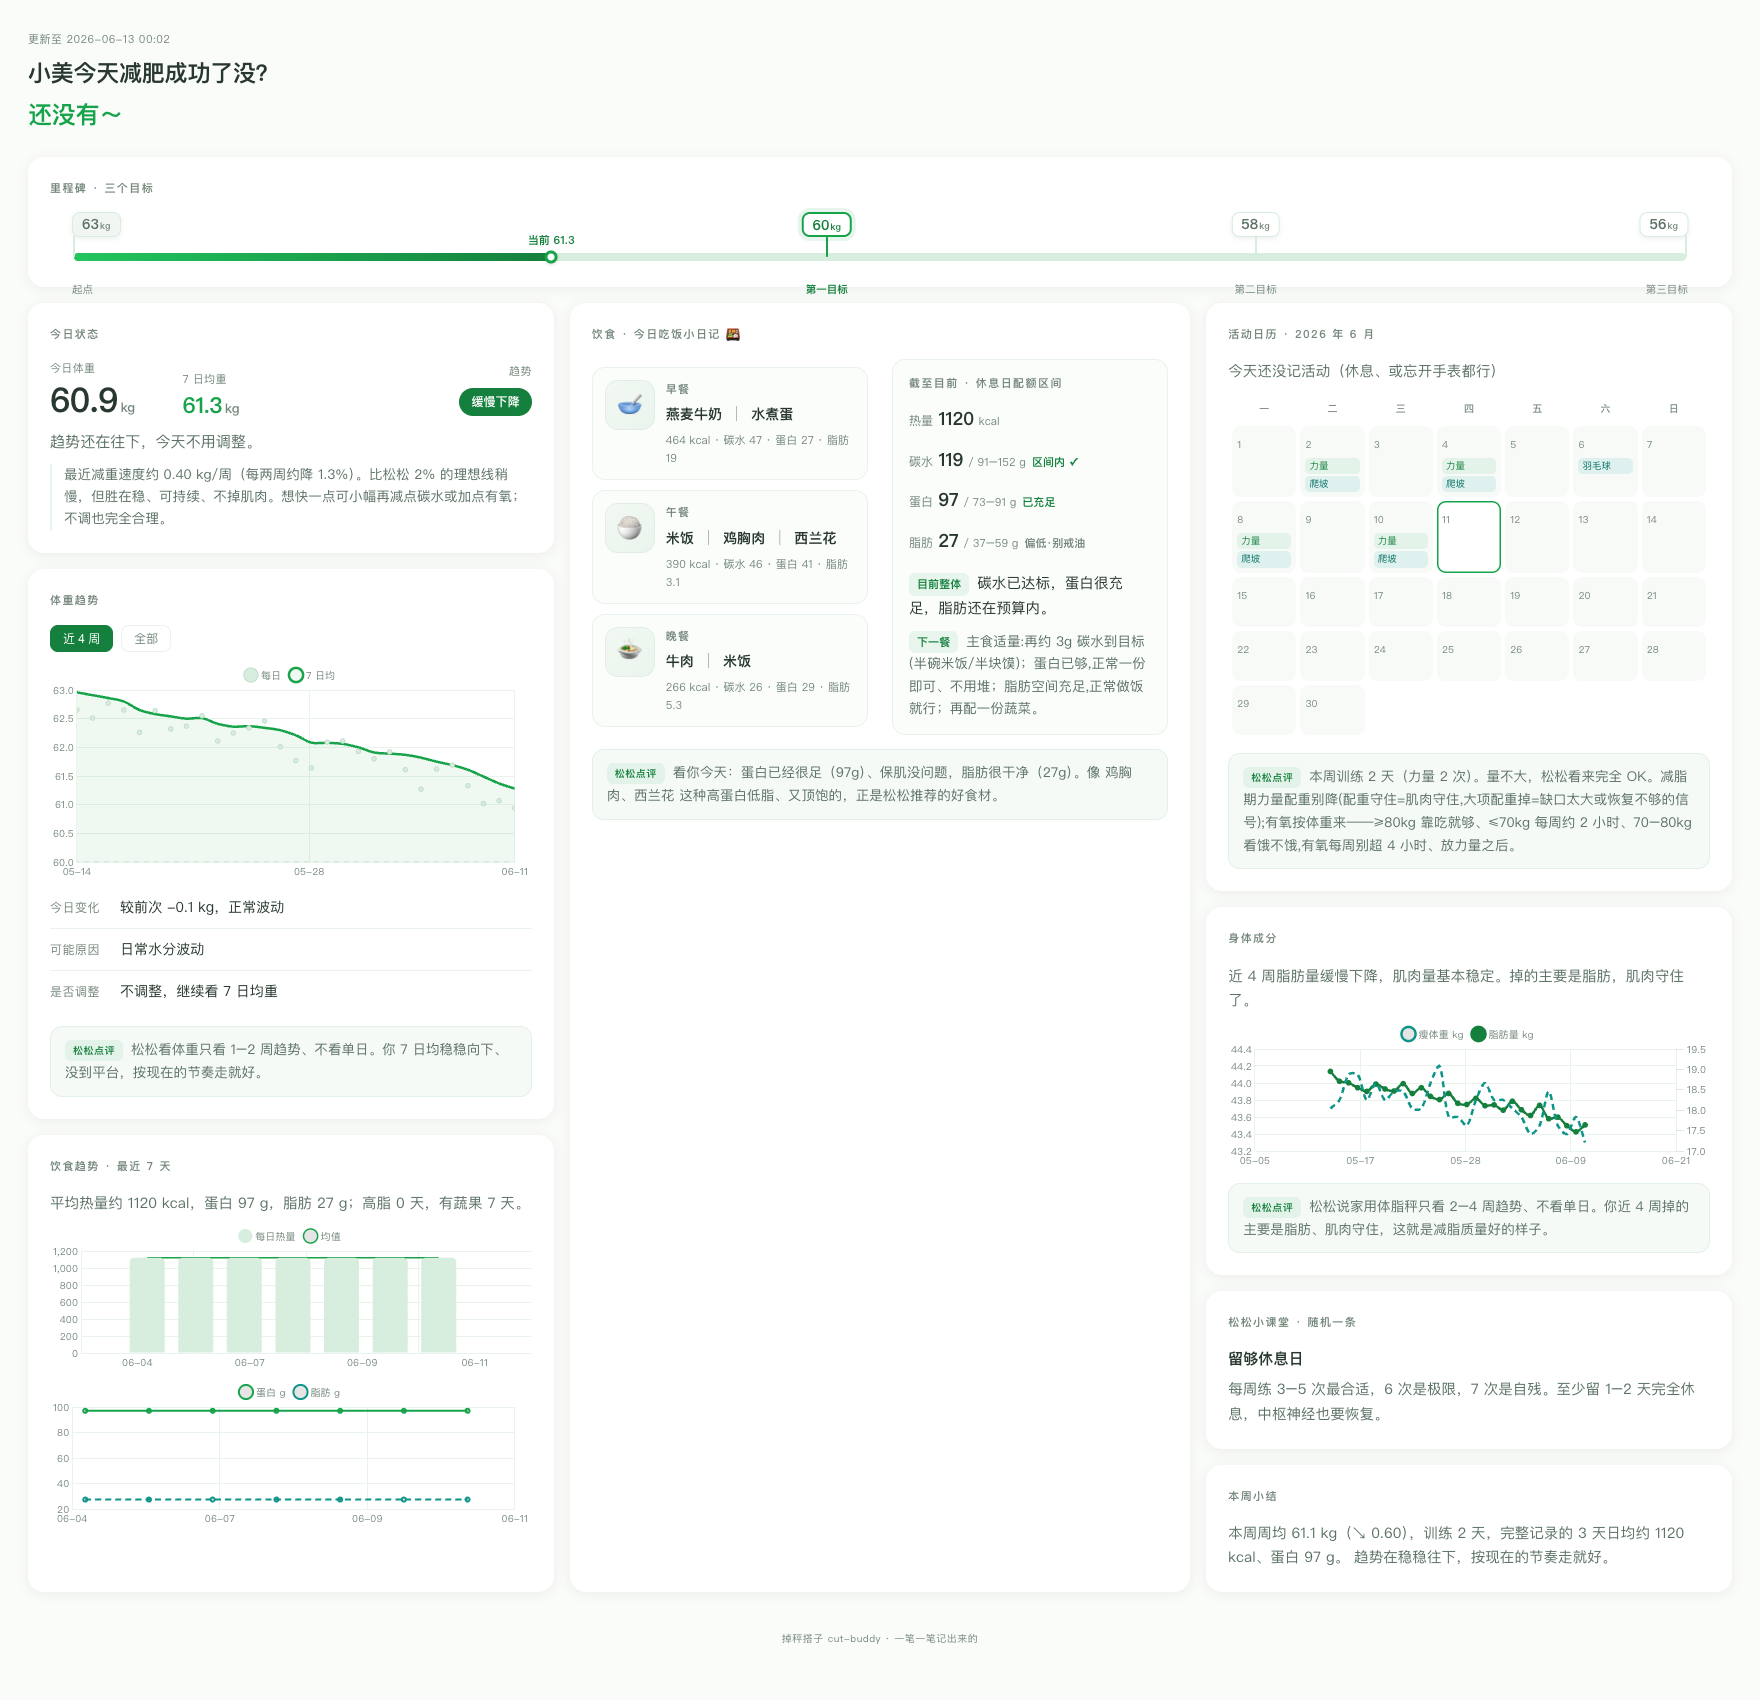
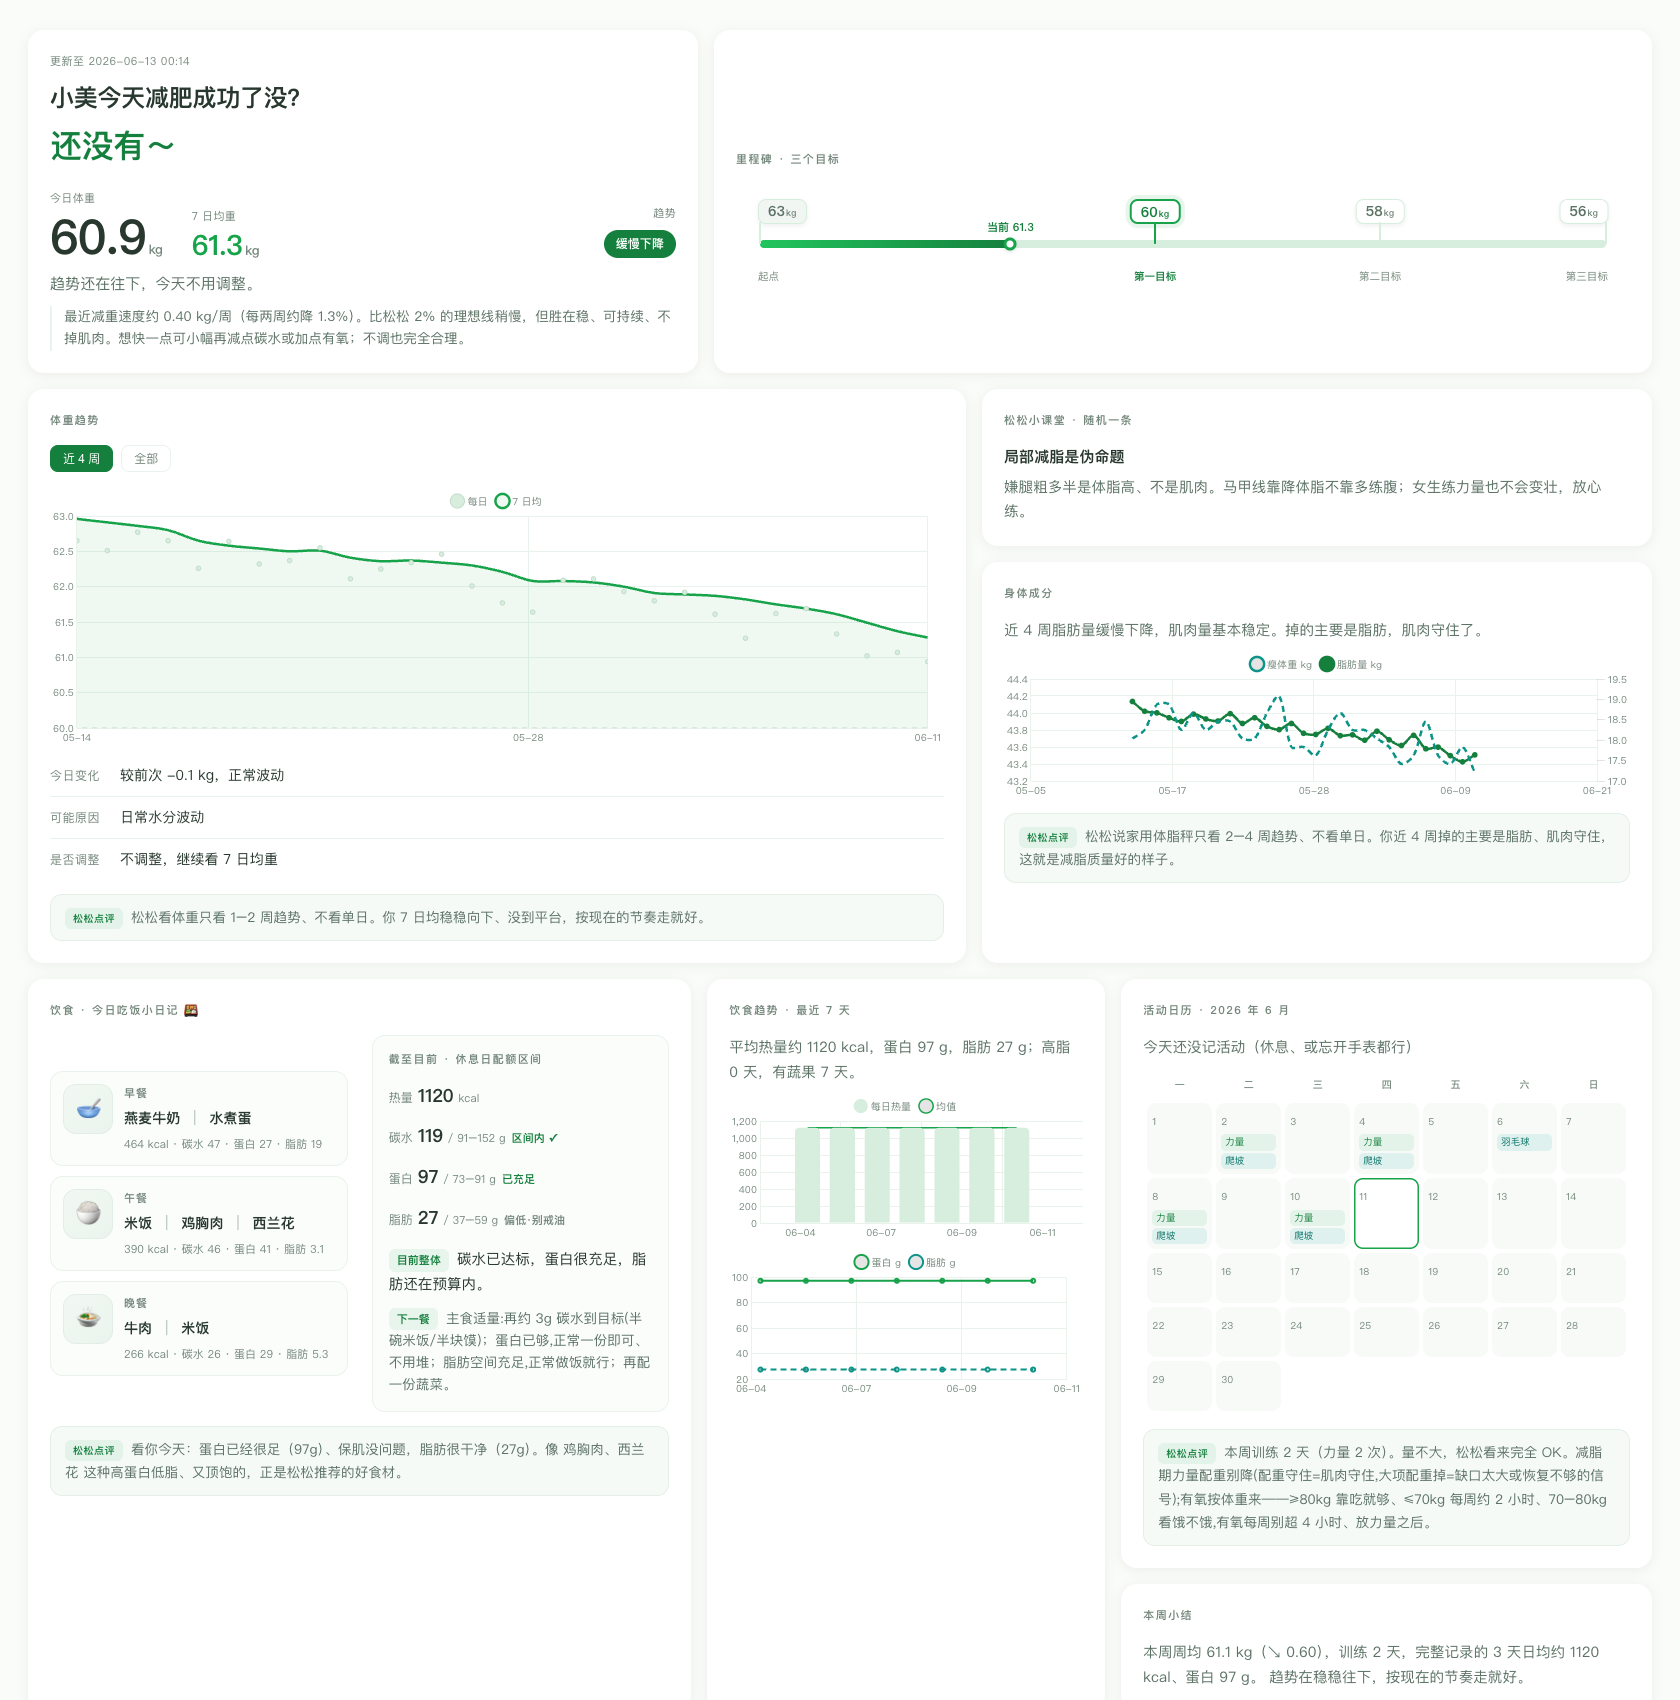
v1.9: 分享视图Bento三段式重排(英雄卡/证据区/细节区)

diff --git a/scripts/build_dashboard.py b/scripts/build_dashboard.py
@@ -817,14 +817,13 @@ def render(D):
     pattern_block = (c_sub("最近 30 天") + "<div class='body-t'>%s</div>" % esc(di["pattern_text"])) if show_pattern else ""
     body_chart = "<div class='cv sm'><canvas id='cBody' role='img' aria-label='身体成分趋势:瘦体重(虚线)与脂肪量(实线)双轴折线图'></canvas></div>" if bo["has"] else ""
 
-    # —— 用统一组件拼装整页 ——
-    head = "<div class='head'><div class='upd'>更新至 %s</div><h1>%s</h1><div class='answer'>%s</div></div>" % (
-        esc(D["updated"]), esc(mst["question"]), esc(mst["answer"]))
+    # —— 用统一组件拼装整页(Bento 层级:英雄卡=第一眼焦点) ——
     c_milestone = c_card(milestone_html(mst), "里程碑 · 三个目标")
     stats = (c_stat("今日体重", f1(t["weight"]), "kg") + c_stat("7 日均重", f1(t["ma7"]), "kg", "ma")
              + "<div class='stat tr'><div class='l'>趋势</div>%s</div>" % c_tag(t["trend_label"]))
-    c_status = c_card("<div class='stats'>%s</div><div class='one'>%s</div><div class='speed'>%s</div>" % (
-        stats, esc(t["one"]), esc(t["speed"])), "今日状态")
+    c_hero = ("<div class='card hero'><div class='upd'>更新至 %s</div><h1>%s</h1><div class='answer'>%s</div>"
+              "<div class='stats'>%s</div><div class='one'>%s</div><div class='speed'>%s</div></div>") % (
+        esc(D["updated"]), esc(mst["question"]), esc(mst["answer"]), stats, esc(t["one"]), esc(t["speed"]))
     weight_kv = ("<div class='kv'><div class='row'><span class='k'>今日变化</span><span>%s</span></div>"
                  "<div class='row'><span class='k'>可能原因</span><span>%s</span></div>"
                  "<div class='row'><span class='k'>是否调整</span><span>%s</span></div></div>") % (
@@ -840,11 +839,19 @@ def render(D):
         esc(bo["summary"]), body_chart, c_coach(bo["coach"])), "身体成分", cls="")
     c_supp = c_card(supp_html(supp), cls=("praise-card" if supp["kind"] == "praise" else ""))
     c_recap = c_card("<div class='body-t'>%s</div>" % esc(recap_txt), "本周小结", cls="")
-    # 宽幅三栏(≥1360px 一屏放下全部内容,整页截一张图即可分享);窄屏自动退化为单列
-    col1 = "<div class='wcol'>%s%s%s</div>" % (c_status, c_weight, c_diettrend)
-    col2 = "<div class='wcol'>%s</div>" % c_diet
-    col3 = "<div class='wcol'>%s%s%s%s</div>" % (c_calendar, c_bodycomp, c_supp, c_recap)
-    body_html = head + c_milestone + "<div class='wide'>%s%s%s</div>" % (col1, col2, col3)
+    # Bento 三段式(≥1360px;窄屏自动退化为单列竖排,阅读顺序不变):
+    #  R1 第一眼:英雄卡(问句+答案+大数字) | 里程碑    R2 证据:体重趋势大图 | 夸夸+身体成分
+    #  R3 细看:今日饮食 | 7天饮食趋势 | 日历+小结
+    band1 = "<div class='b1'>%s%s</div>" % (c_hero, c_milestone)
+    band2 = ("<div class='b2'><div class='bcell bmain'>%s</div><div class='bcell'>%s%s</div></div>"
+             % (c_weight, c_supp, c_bodycomp))
+    if c_diettrend:
+        band3 = ("<div class='b3'><div class='bcell'>%s</div><div class='bcell'>%s</div><div class='bcell'>%s%s</div></div>"
+                 % (c_diet, c_diettrend, c_calendar, c_recap))
+    else:
+        band3 = ("<div class='b3 b3two'><div class='bcell'>%s</div><div class='bcell'>%s%s</div></div>"
+                 % (c_diet, c_calendar, c_recap))
+    body_html = band1 + band2 + band3
 
     out = TEMPLATE.replace("/*DATA*/", json.dumps(D["charts"], ensure_ascii=False)).replace("__BODY__", body_html)
     out = out.replace("数据本地存储 · ~/Documents/cut-buddy-data", foot)
@@ -928,18 +935,16 @@ html{-webkit-font-smoothing:antialiased;text-rendering:optimizeLegibility;}
 body{margin:0;background:var(--bg);color:var(--ink);
  font:15px/1.65 'Nunito Sans','PingFang SC','Hiragino Sans GB','Microsoft YaHei',sans-serif;
  font-variant-numeric:tabular-nums;font-feature-settings:"tnum" 1;letter-spacing:.005em;}
-h1,.stat .v,.head .answer,.sf-item b,.node .flag{font-family:'Varela Round','Nunito Sans','PingFang SC','Hiragino Sans GB',sans-serif;}
+h1,.stat .v,.hero .answer,.sf-item b,.node .flag{font-family:'Varela Round','Nunito Sans','PingFang SC','Hiragino Sans GB',sans-serif;}
 .wrap{max-width:540px;margin:0 auto;padding:30px 18px 80px;}
-.head{margin-bottom:22px;}
-.head h1{font-size:19px;font-weight:650;letter-spacing:-.01em;margin:0 0 3px;}
-.head .sb{color:var(--t3);font-size:12px;} .head .up{color:var(--t3);font-size:11px;margin-top:3px;}
 .card{background:var(--card);border-radius:var(--r);box-shadow:var(--shadow);padding:22px;margin-bottom:16px;
  animation:rise .5s cubic-bezier(.2,.7,.2,1) both;}
 @keyframes rise{from{opacity:0;transform:translateY(8px)}to{opacity:1}}
 @media(prefers-reduced-motion:reduce){.card{animation:none}}
-.head .upd{font-size:11px;color:var(--t3);letter-spacing:.04em;margin-bottom:7px;}
-.head h1{font-size:23px;font-weight:700;letter-spacing:-.01em;margin:0;}
-.head .answer{font-size:24px;font-weight:700;color:var(--accent);margin-top:2px;letter-spacing:-.01em;}
+/* 英雄卡:整页第一眼焦点(问句+答案+今日体重大数字) */
+.hero .upd{font-size:11px;color:var(--t3);letter-spacing:.04em;margin-bottom:8px;}
+.hero h1{font-size:21px;font-weight:700;letter-spacing:-.01em;margin:0;}
+.hero .answer{font-size:26px;font-weight:700;color:var(--accent-d);margin:2px 0 16px;letter-spacing:-.01em;}
 .msbar{position:relative;margin:56px 24px 4px;}
 .track2{position:relative;height:8px;background:var(--weak);border-radius:8px;}
 .fill2{position:absolute;left:0;top:0;height:100%;background:linear-gradient(90deg,var(--accent-l),var(--accent-d));border-radius:8px;}
@@ -971,18 +976,30 @@ h1,.stat .v,.head .answer,.sf-item b,.node .flag{font-family:'Varela Round','Nun
 .tip-b{font-size:14.5px;line-height:1.7;color:var(--t2);}  /* 与 .body-t 同刻度:同级卡片正文必须同字号 */
 .speed{margin-top:11px;font-size:13.5px;line-height:1.65;color:var(--t2);padding-left:12px;border-left:2px solid var(--soft);}
 /* 字号刻度约定:正文级(body-t/tip-b/judge2)14.5 · 结论行(one)15 · 次级说明(coach/advice2/speed)13.5 · 提示(note)12.5 */
-/* 宽幅三栏:默认(窄屏)栏容器透明化,卡片照旧单列竖排;≥1360px 变三栏、一屏容纳全部内容,
-   整页截图即一张可分享的宽图。各栏末卡弹性补高 → 三栏底边恒对齐。 */
-.wide,.wcol{display:contents;}
+/* Bento 三段式(分享视图):默认(窄屏)容器透明化、卡片单列竖排;≥1360px 进入便当盒布局——
+   R1 英雄卡|里程碑 → R2 趋势大图|夸夸+身体成分 → R3 饮食|7天趋势|日历+小结。
+   各格末卡弹性补高 → 每段底边恒对齐,整页截图即一张层级清晰的分享宽图。 */
+.b1,.b2,.b3,.bcell{display:contents;}
 @media(min-width:880px){
  .wrap{max-width:1000px;}
  .span2 .stats{gap:48px;}
 }
 @media(min-width:1360px){
- .wrap{max-width:1760px;padding-left:28px;padding-right:28px;}
- .wide{display:grid;grid-template-columns:1fr 1.18fr 1fr;gap:0 16px;align-items:stretch;}
- .wcol{display:flex;flex-direction:column;min-width:0;}
- .wcol>.card:last-child{flex:1;}
+ .wrap{max-width:1680px;padding-left:28px;padding-right:28px;}
+ .b1{display:grid;grid-template-columns:5fr 7fr;gap:0 16px;align-items:stretch;}
+ .b2{display:grid;grid-template-columns:7fr 5fr;gap:0 16px;align-items:stretch;}
+ .b3{display:grid;grid-template-columns:5fr 3fr 4fr;gap:0 16px;align-items:stretch;}
+ .b3.b3two{grid-template-columns:6fr 6fr;}
+ .bcell{display:flex;flex-direction:column;min-width:0;}
+ .bcell>.card:last-child{flex:1;}
+ .b1>.card{display:flex;flex-direction:column;justify-content:center;}
+ .b1>.hero{justify-content:flex-start;}
+ .hero h1{font-size:24px;}
+ .hero .answer{font-size:32px;}
+ .hero .stat .v{font-size:48px;}
+ .hero .stat.ma .v{font-size:28px;}
+ .bmain>.card{display:flex;flex-direction:column;}
+ .bmain .cv{flex:1;height:auto;min-height:260px;}
 }
 .mt{font-size:11px;font-weight:600;color:var(--t3);letter-spacing:.13em;text-transform:uppercase;margin:0 0 16px;}
 /* 今日状态 */

diff --git a/docs/DESIGN-SYSTEM.md b/docs/DESIGN-SYSTEM.md
@@ -90,3 +90,21 @@
 
 - `theme-compare.html` —— 四主题对比版,**"清新草绿"主题即本方案的活样板**(色值与本文档一一对应)
 - `dashboard-demo.html` —— 单主题版,已同步为清新草绿终版
+
+---
+
+## 9. 分享视图布局(Bento 三段式,v1.9 定稿)
+
+> 场景:用户整页截图发小红书/朋友圈求监督。布局要回答"这张图想表达什么"——
+> **"我在认真减,而且真在变好"**,信息按三层动线组织,内容零删减。
+
+| 段 | 栅格(≥1360px) | 内容 | 层级语义 |
+|---|---|---|---|
+| R1 第一眼 | 5fr + 7fr | 英雄卡(问句+答案 32px+今日体重 **48px**+趋势标签) \| 里程碑进度条(垂直居中) | 我是谁/今天如何/大局 |
+| R2 证据 | 7fr + 5fr | 体重趋势大图(图表弹性放大,min 260px) \| 夸夸/小课堂 + 身体成分 | 真在变好的证据+情绪高光 |
+| R3 细看 | 5fr + 3fr + 4fr | 今日饮食 \| 7 天饮食趋势 \| 日历 + 本周小结 | 认真程度的细节 |
+
+- 排版原则:**层级靠卡片尺寸和字号差表达,不靠颜色堆砌**(英雄数字 48px ≫ 正文 14.5px);各格末卡弹性补高,三段底边恒对齐,截图是规整矩形。
+- 无 7 天饮食数据时 R3 自动并为两格(6fr+6fr),不留空洞。
+- <1360px 全部容器 `display:contents` 退化为单列流式,移动端体验与旧版一致。
+- 来源:ui-ux-pro-max 引擎 Bento Grid 范式(Apple 式模块化层级);其同场景推荐的玫红配色/等宽字体与已定稿的清新草绿冲突,**未采纳**。

diff --git a/CHANGELOG.md b/CHANGELOG.md
@@ -2,6 +2,15 @@
 
 > 格式：版本号 · 日期 · 变更内容。最新在最上面。
 
+## v1.9 · 2026-06-13 · 分享视图重排:Bento 三段式,有层级、不硬排
+
+v1.8 的三等列被用户点名"硬排、杂乱、不知道要表达什么"——这版引入设计引擎(ui-ux-pro-max)的 **Bento Grid** 范式重做信息层级,内容仍零删减:
+- **R1 第一眼**:英雄卡(标题问句+答案 32px+今日体重 **48px 大数字**+趋势标签,原"标题"和"今日状态"合并)| 里程碑进度条。一眼读出"她现在多重、在变好、离目标多远"。
+- **R2 证据**:体重趋势图弹性放大成全页最大图表 | 夸夸/小课堂 + 身体成分。
+- **R3 细看**:今日饮食 | 7 天饮食趋势 | 日历+本周小结。
+- 三段底边恒对齐;无 7 天数据时 R3 自动两格;手机/窄屏仍是单列流式(实测无横滚)。
+- 布局规范写入 `docs/DESIGN-SYSTEM.md` §9(含"引擎推荐的配色/字体与定稿冲突,未采纳"的取舍记录)。
+
 ## v1.8 · 2026-06-13 · 宽幅一屏布局,整页截图即可分享
 
 为"把进展发小红书/朋友圈让朋友监督"而做:看板不再是长长一条、截图要切好几张——